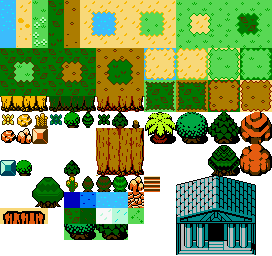
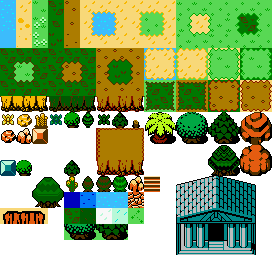
Use generator only in createTileMap.

Changed region(s): [[0.3529, 0.5, 0.5294, 0.625], [0.9118, 0.4375, 0.9412, 0.4688]]

diff --git a/main.cpp b/main.cpp
@@ -32,8 +32,6 @@ int main()
     auto deltaTime = std::atomic<double>(0);
     auto currentTime = std::atomic<double>(0);
     auto isUpdateFinished = std::atomic<bool>(false);
-    auto worldGenerator = WorldGenerator();
-
 
     Vector2 virtualResolution = getVirtualResolution();
     Vector2 screenResolution = getScreenResolution();
@@ -72,30 +70,28 @@ int main()
     float map_z = 0.01;
 
     auto createTileMap = [&]() {
-        auto map = worldGenerator.render();
+        auto generator = WorldGenerator();
+        generator.generate(WorldWidth, WorldHeight);
+        auto map = generator.render();
+
         for (int i = 0; i < map.size(); i++) {
-            int x = i % worldGenerator.map_width;
-            int y = i / worldGenerator.map_width;
+            int x = i % generator.map_width;
+            int y = i / generator.map_width;
             tilemap.setTile(x, y, 0, map[i]);
         }
-    };
-
-    auto createMap = [&](bool regenerate = false){
-        worldGenerator.generate(WorldWidth, WorldHeight);
-        createTileMap();
-    };
-
-    auto createUpperLayerMap = [&](){
-        auto layerData = worldGenerator.renderUpperLayer();
+        auto layerData = generator.renderUpperLayer();
         for (int i = 0; i < layerData.size(); i++) {
-            int x = i % worldGenerator.map_width;
-            int y = i / worldGenerator.map_width;
+            int x = i % generator.map_width;
+            int y = i / generator.map_width;
             tilemap_2.setTile(x, y, 0, layerData[i]);
         }
     };
 
+    auto createMap = [&](bool regenerate = false){
+        createTileMap();
+    };
+
     createMap();
-    createUpperLayerMap();
 
     auto onUpdateMap = [&](double dt){
         int mx = 0;
@@ -127,8 +123,6 @@ int main()
         }
         if (IsKeyDown(KEY_R)) {
             createMap();
-            createUpperLayerMap();
-            createTileMap();
         }
 
         if (mapOffset.x < 0) mapOffset.x = 0;

diff --git a/src/Tilemap.hpp b/src/Tilemap.hpp
@@ -15,7 +15,7 @@ struct Size {
 };
 
 struct Tile {
-    int id;
+    uint8_t id;
     uint8_t index;
 };
 
@@ -24,7 +24,7 @@ public:
     Tilemap(int width, int height, int tile_width, int tile_height);
 
     void setTexture(std::shared_ptr<Texture2D> texture);
-    void setTile(int x, int y, int id, uint8_t index);
+    void setTile(int x, int y, uint8_t id, uint8_t index);
     Tile getTile(int x, int y);
 
     void drawTile(float x, float y, int index);

diff --git a/src/Tilemap.cpp b/src/Tilemap.cpp
@@ -17,10 +17,10 @@ Tilemap::Tilemap(int width, int height, int tile_width, int tile_height) {
 }
 
 void Tilemap::setTexture(std::shared_ptr<Texture2D> texture) {
-    this->texture = texture;
+    this->texture = std::move(texture);
 }
 
-void Tilemap::setTile(int x, int y, int id, uint8_t index) {
+void Tilemap::setTile(int x, int y, uint8_t id, uint8_t index) {
     int position = y * this->size.width + x;
     this->tiles[position] = { id, index };
 }

diff --git a/src/WorldGenerator.hpp b/src/WorldGenerator.hpp
@@ -102,6 +102,7 @@ const map<TileType, vector<int>> LayerTiles = {
 const map<vector<int>, vector<int>> LayerCombinations = {
         { { 126, 126, 126, 126 }, { 132, 133, 149, 150 } },
         { { 136, 136, 136, 136 }, { 134, 135, 151, 152 } },
+        { { 137, 137, 137, 137 }, { 168, 169, 185, 186 } },
 };
 
 class WorldGenerator {
